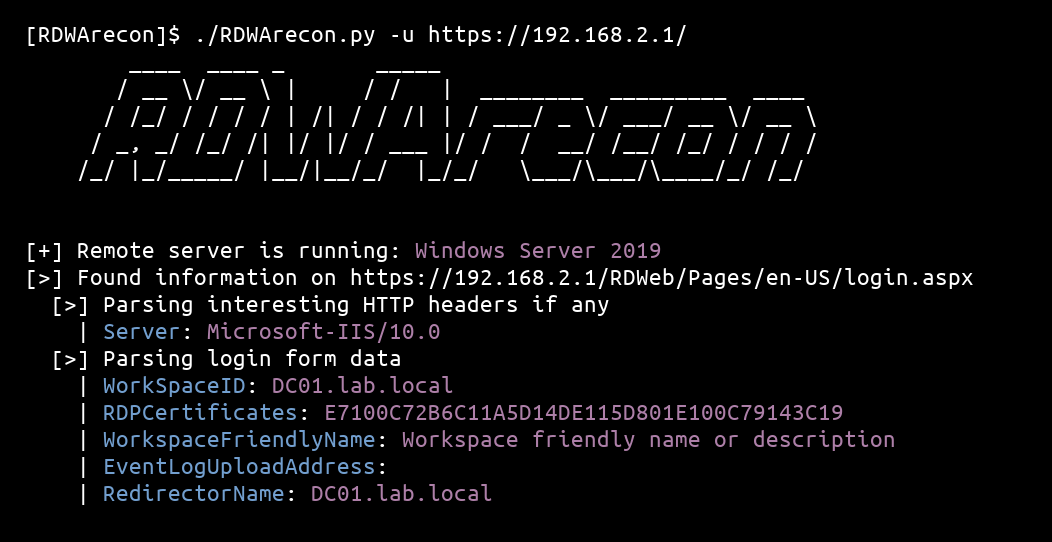
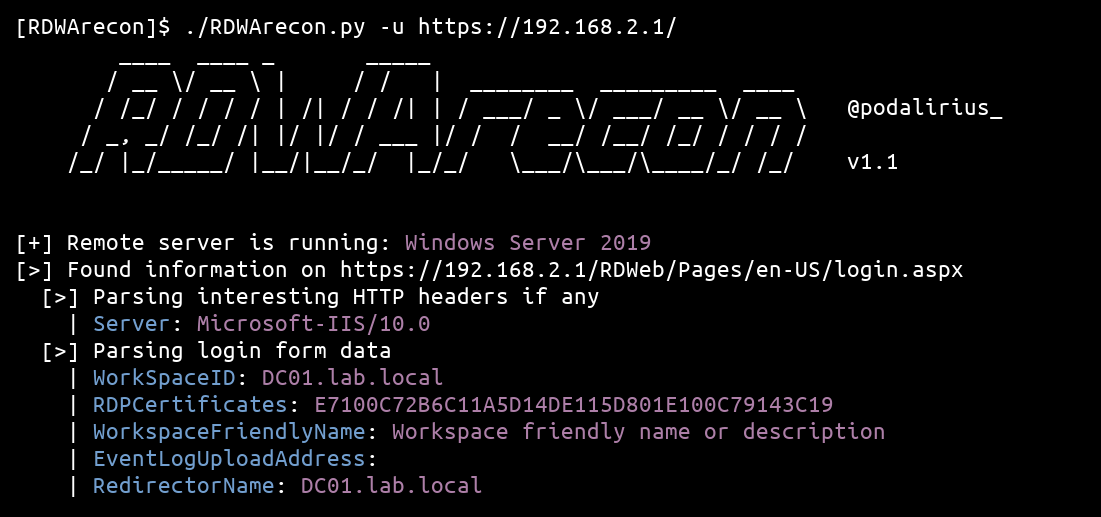
Version 1.1 + example output

Changed region(s): [[0.0, 0.4333, 0.943, 0.9594], [0.0608, 0.1238, 0.9125, 0.3404], [0.0, 0.0309, 0.6388, 0.0928]]

diff --git a/RDWArecon.py b/RDWArecon.py
@@ -13,12 +13,11 @@ import hashlib
 
 
 def banner():
-    print(r"""
-        ____  ____ _       _____                             
+    print(r"""        ____  ____ _       _____                             
        / __ \/ __ \ |     / /   |  ________  _________  ____ 
-      / /_/ / / / / | /| / / /| | / ___/ _ \/ ___/ __ \/ __ \
-     / _, _/ /_/ /| |/ |/ / ___ |/ /  /  __/ /__/ /_/ / / / /
-    /_/ |_/_____/ |__/|__/_/  |_/_/   \___/\___/\____/_/ /_/ 
+      / /_/ / / / / | /| / / /| | / ___/ _ \/ ___/ __ \/ __ \   @podalirius_
+     / _, _/ /_/ /| |/ |/ / ___ |/ /  /  __/ /__/ /_/ / / / /   
+    /_/ |_/_____/ |__/|__/_/  |_/_/   \___/\___/\____/_/ /_/    v1.1
                                                              
     """)
 

diff --git a/README.md b/README.md
@@ -18,9 +18,9 @@ $ ./RDWArecon.py -h
 
         ____  ____ _       _____                             
        / __ \/ __ \ |     / /   |  ________  _________  ____ 
-      / /_/ / / / / | /| / / /| | / ___/ _ \/ ___/ __ \/ __ \
-     / _, _/ /_/ /| |/ |/ / ___ |/ /  /  __/ /__/ /_/ / / / /
-    /_/ |_/_____/ |__/|__/_/  |_/_/   \___/\___/\____/_/ /_/ 
+      / /_/ / / / / | /| / / /| | / ___/ _ \/ ___/ __ \/ __ \   @podalirius_
+     / _, _/ /_/ /| |/ |/ / ___ |/ /  /  __/ /__/ /_/ / / / /   
+    /_/ |_/_____/ |__/|__/_/  |_/_/   \___/\___/\____/_/ /_/    v1.1
                                                              
     
 usage: RDWArecon.py [-h] -u URL [-v] [-k] [-L] [--no-colors]
@@ -34,6 +34,7 @@ optional arguments:
   -k, --insecure     Allow insecure server connections when using SSL (default: False)
   -L, --location     Follow redirects (default: False)
   --no-colors        Disable colored output (default: False)
+
 ```
 
 ## How it works
@@ -77,6 +78,10 @@ If the remote RDWeb installation was not hardened, there is a high chance that t
[1 lines of base64/hex data omitted]
 
 The [RDWArecon.py](./RDWArecon.py) tool automatically gets this file and compare its hash to get the remote Windows Server version.
+
+## Example of output
+
+![](./.github/example.png)
 
 ## Contributing
 
